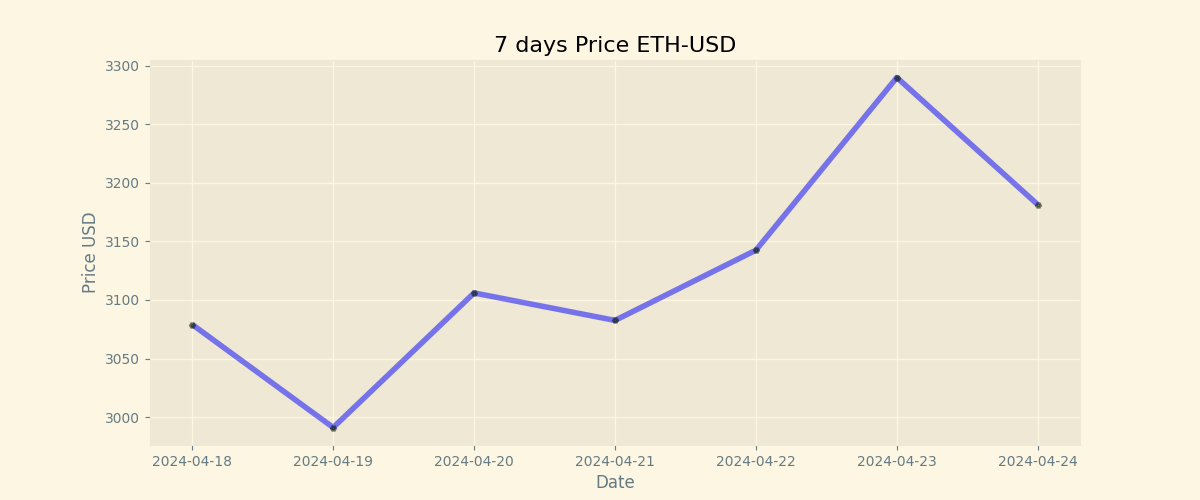
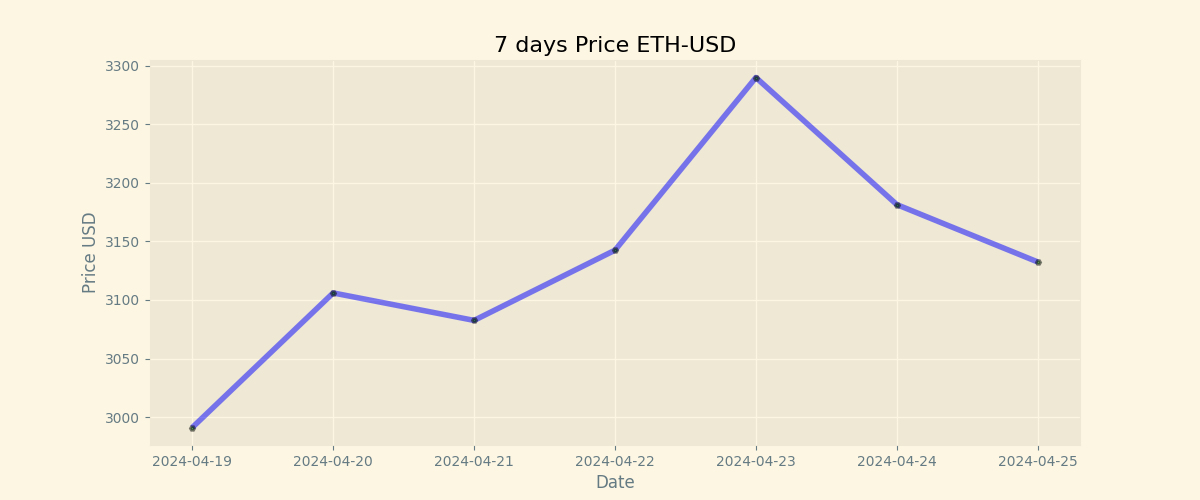
Duty Updates 2024-04-25

diff --git a/README.md b/README.md
@@ -9,8 +9,8 @@
 
 | Currency | Price           |
 | -------- | --------------- |
-| **BTC**  | **$ 66787.6** |
-| **ETH**  | **$ 3181.44** |
+| **BTC**  | **$ 66998.5** |
+| **ETH**  | **$ 3132.47** |
 
 ## BTC chart
 
